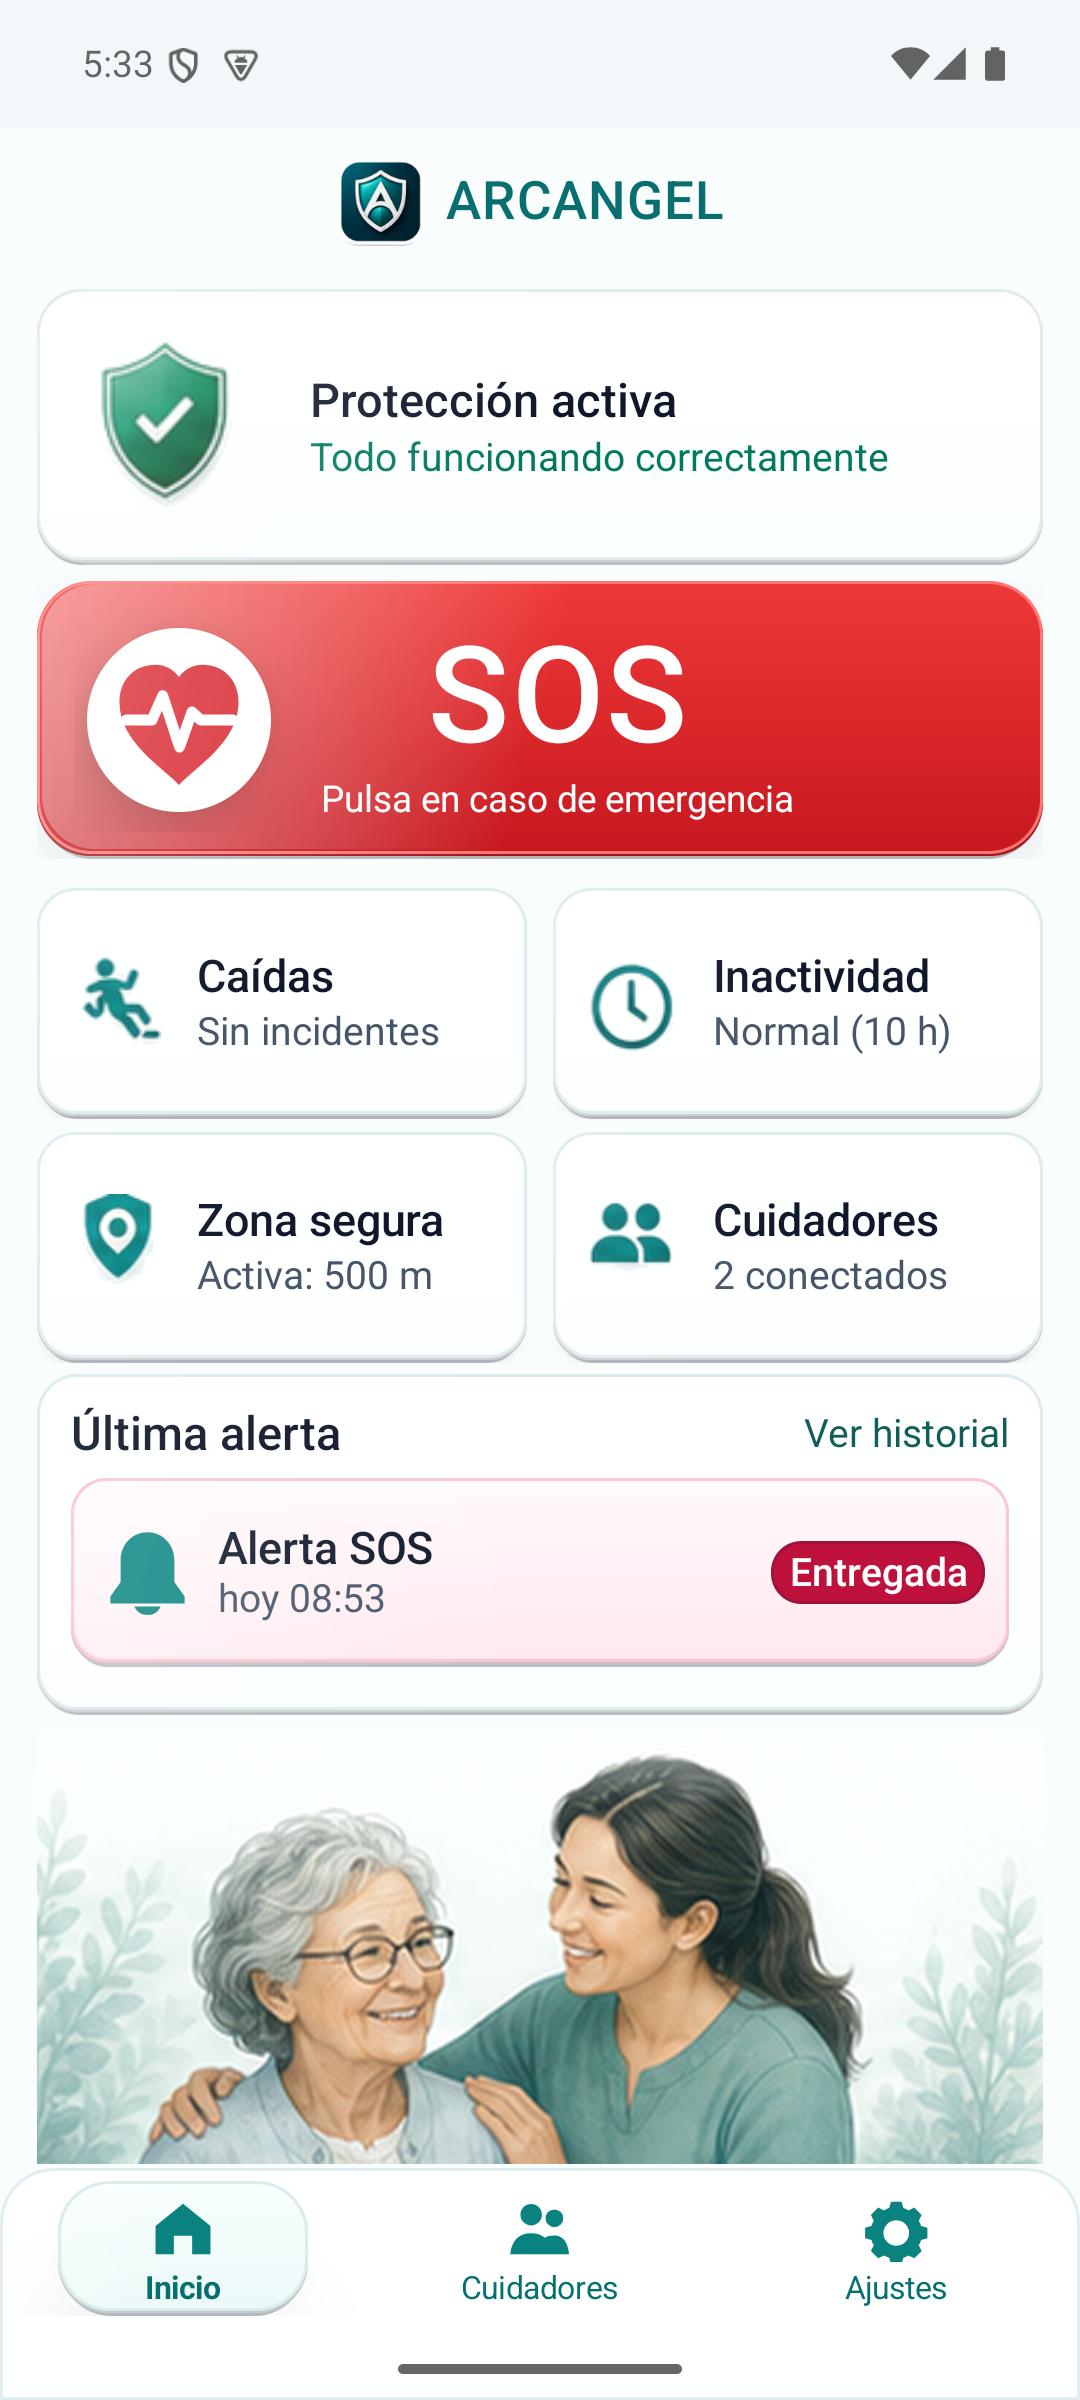
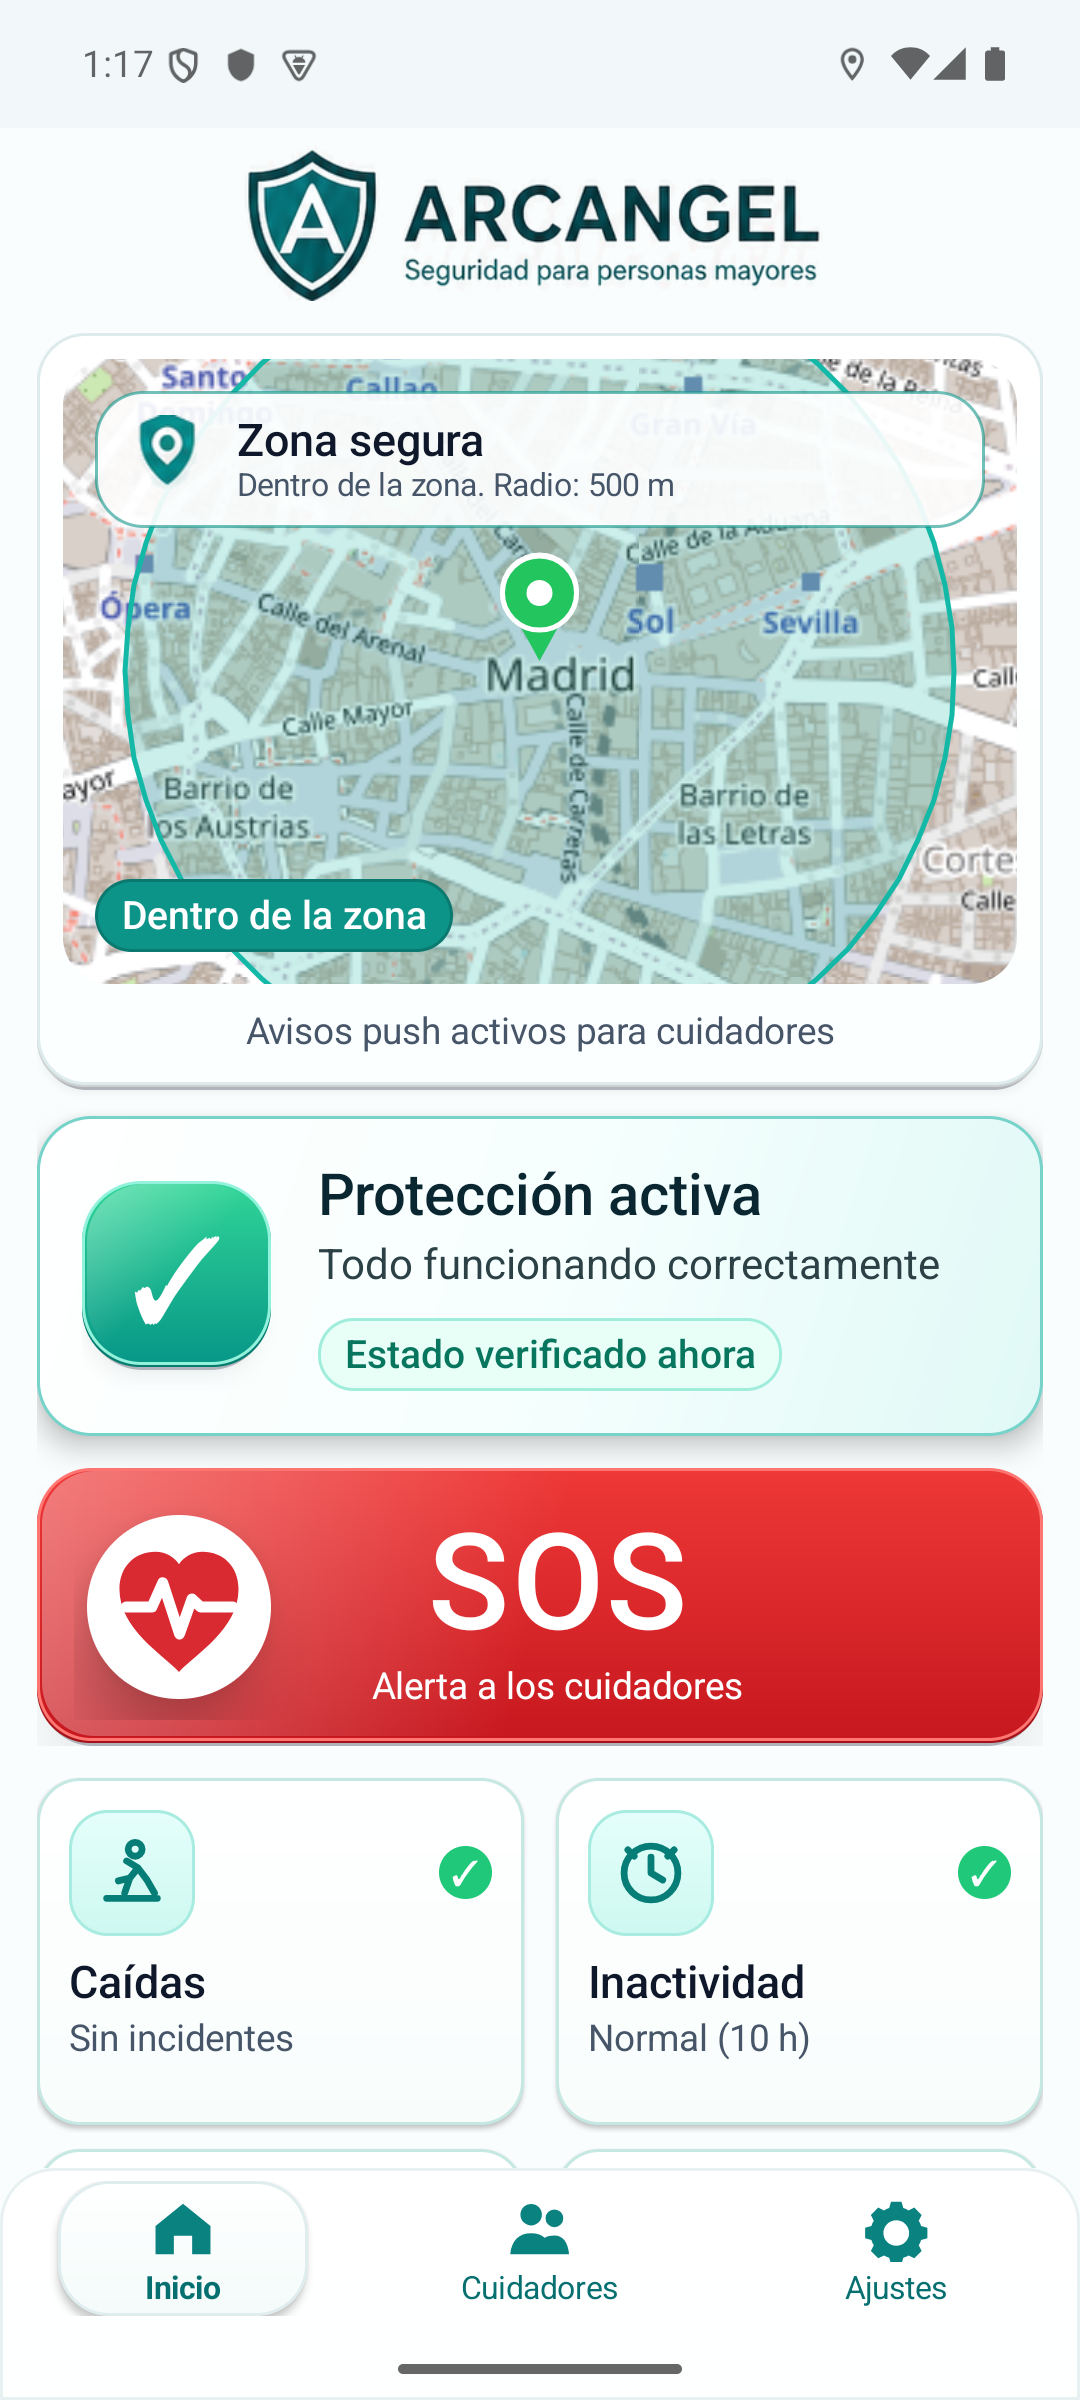
Add tutorial section and update hero phone screenshot

diff --git a/styles.css b/styles.css
@@ -603,6 +603,116 @@ h3 {
   line-height: 1.65;
 }
 
+.tutorial-section {
+  width: min(1180px, calc(100% - 40px));
+  margin: 0 auto;
+  padding: 108px 0;
+}
+
+.tutorial-header {
+  max-width: 780px;
+  margin-bottom: 38px;
+}
+
+.tutorial-header p,
+.tutorial-note p {
+  color: var(--muted);
+  font-size: 18px;
+  line-height: 1.68;
+}
+
+.tutorial-grid {
+  display: grid;
+  grid-template-columns: repeat(2, minmax(0, 1fr));
+  gap: 18px;
+}
+
+.tutorial-card,
+.tutorial-note {
+  position: relative;
+  border: 1px solid rgba(23, 105, 94, 0.16);
+  border-radius: 8px;
+  background: linear-gradient(135deg, rgba(255, 255, 255, 0.96), rgba(255, 250, 241, 0.92));
+  box-shadow: 0 18px 48px rgba(18, 32, 29, 0.09);
+}
+
+.tutorial-card {
+  min-height: 420px;
+  padding: 30px;
+}
+
+.step-number {
+  display: grid;
+  place-items: center;
+  width: 52px;
+  height: 52px;
+  margin-bottom: 22px;
+  border-radius: 18px;
+  color: #fff;
+  background: linear-gradient(145deg, var(--green-2), var(--green));
+  font-size: 24px;
+  font-weight: 900;
+  box-shadow: 0 14px 34px rgba(15, 63, 56, 0.22);
+}
+
+.tutorial-card h3,
+.tutorial-note h3 {
+  font-size: 24px;
+}
+
+.tutorial-card ol {
+  display: grid;
+  gap: 10px;
+  margin: 0;
+  padding-left: 22px;
+  color: var(--muted);
+  line-height: 1.55;
+}
+
+.tutorial-card li::marker {
+  color: var(--green-2);
+  font-weight: 900;
+}
+
+.tutorial-note {
+  margin-top: 20px;
+  padding: 34px;
+  overflow: hidden;
+}
+
+.tutorial-note::after {
+  content: "";
+  position: absolute;
+  right: -70px;
+  bottom: -90px;
+  width: 260px;
+  height: 260px;
+  border-radius: 50%;
+  background: radial-gradient(circle, rgba(182, 234, 223, 0.8), rgba(182, 234, 223, 0));
+}
+
+.tutorial-note > * {
+  position: relative;
+  z-index: 1;
+}
+
+.tutorial-summary {
+  display: flex;
+  flex-wrap: wrap;
+  gap: 10px;
+  margin-top: 22px;
+}
+
+.tutorial-summary span {
+  padding: 10px 13px;
+  border: 1px solid rgba(23, 105, 94, 0.16);
+  border-radius: 999px;
+  color: var(--green);
+  background: rgba(182, 234, 223, 0.34);
+  font-size: 13px;
+  font-weight: 850;
+}
+
 .download-card {
   width: min(860px, 100%);
   margin: 0 auto;
@@ -701,7 +811,8 @@ h3 {
   .proof,
   .screen-row,
   .video-feature,
-  .campaign-strip {
+  .campaign-strip,
+  .tutorial-grid {
     grid-template-columns: 1fr;
   }
 
@@ -739,6 +850,10 @@ h3 {
   .campaign-card {
     max-width: 360px;
     margin: 0 auto;
+  }
+
+  .tutorial-card {
+    min-height: auto;
   }
 }
 

diff --git a/index.html b/index.html
@@ -19,6 +19,7 @@
         <a href="#funciones">Funciones</a>
         <a href="#cuidador">Cuidador</a>
         <a href="#seguridad">Seguridad</a>
+        <a href="#tutorial">Tutorial</a>
         <a class="nav-cta" href="#descargar">Proximamente</a>
       </nav>
     </header>
@@ -188,6 +189,87 @@
         <article class="campaign-card reveal">
           <img src="assets/campaign/ad-zone.jpg" alt="Creatividad de zona segura de ARCANGEL">
         </article>
+      </section>
+
+      <section class="tutorial-section" id="tutorial" aria-label="Tutorial de configuracion de ARCANGEL">
+        <div class="tutorial-header reveal">
+          <span class="eyebrow dark">Tutorial</span>
+          <h2>Configura ARCANGEL paso a paso.</h2>
+          <p>
+            ARCANGEL funciona con dos modos: Persona Mayor, que se usa en el
+            movil de la persona protegida, y Cuidador, que se usa en el movil
+            del familiar o cuidador que recibira los avisos.
+          </p>
+        </div>
+
+        <div class="tutorial-grid">
+          <article class="tutorial-card reveal">
+            <span class="step-number">1</span>
+            <h3>Configurar el movil de la persona mayor</h3>
+            <ol>
+              <li>Instala ARCANGEL en el movil de la persona mayor.</li>
+              <li>Abre la app y acepta los permisos necesarios.</li>
+              <li>Cuando aparezca la seleccion de modo, elige <strong>Persona Mayor</strong>.</li>
+              <li>Sigue el tutorial inicial.</li>
+              <li>Entra en <strong>Ajustes</strong> y abre <strong>Codigo de persona mayor</strong>.</li>
+              <li>Copia o apunta el codigo que aparece.</li>
+            </ol>
+          </article>
+
+          <article class="tutorial-card reveal">
+            <span class="step-number">2</span>
+            <h3>Configurar el movil del cuidador</h3>
+            <ol>
+              <li>Instala ARCANGEL en el movil del cuidador.</li>
+              <li>Abre la app y acepta los permisos necesarios.</li>
+              <li>En la seleccion de modo, elige <strong>Cuidador</strong>.</li>
+              <li>Lee el aviso inicial y pulsa <strong>Continuar</strong>.</li>
+              <li>Entra en la pantalla de mayores o cuidadores.</li>
+              <li>Pulsa <strong>A&ntilde;adir persona mayor por codigo</strong>, escribe el codigo y guarda.</li>
+            </ol>
+          </article>
+
+          <article class="tutorial-card reveal">
+            <span class="step-number">3</span>
+            <h3>Activar la proteccion</h3>
+            <ol>
+              <li>En el movil de la persona mayor, entra en <strong>Ajustes</strong>.</li>
+              <li>Activa <strong>Monitorizacion</strong>.</li>
+              <li>Configura la <strong>Zona segura</strong> y el radio, por ejemplo 500 metros.</li>
+              <li>Ajusta la deteccion de caidas si quieres usar esa funcion.</li>
+              <li>Comprueba que en Inicio aparece <strong>Proteccion activa</strong>.</li>
+            </ol>
+          </article>
+
+          <article class="tutorial-card reveal">
+            <span class="step-number">4</span>
+            <h3>Comprobar que todo funciona</h3>
+            <ol>
+              <li>En el movil de la persona mayor, pulsa el boton <strong>SOS</strong>.</li>
+              <li>Comprueba que el cuidador recibe la alerta.</li>
+              <li>Revisa el <strong>Historial de alertas</strong> en el movil del cuidador.</li>
+              <li>Comprueba que aparece la ubicacion de la persona mayor.</li>
+              <li>Verifica que la zona segura esta activada si vas a usarla.</li>
+            </ol>
+          </article>
+        </div>
+
+        <div class="tutorial-note reveal">
+          <h3>Si no hay cuidador con la app</h3>
+          <p>
+            Si ARCANGEL se va a usar solo en un dispositivo, configura la app
+            como <strong>Persona Mayor</strong>, entra en <strong>Ajustes</strong>,
+            activa <strong>Alertas por email</strong>, a&ntilde;ade el correo donde
+            quieres recibir los avisos y guarda. En este caso, las alertas se
+            enviaran por email en lugar de enviarse a un cuidador con la app.
+          </p>
+          <div class="tutorial-summary">
+            <span>Persona mayor</span>
+            <span>Codigo familiar</span>
+            <span>Cuidador enlazado</span>
+            <span>Proteccion activa</span>
+          </div>
+        </div>
       </section>
 
       <section class="download" id="descargar">